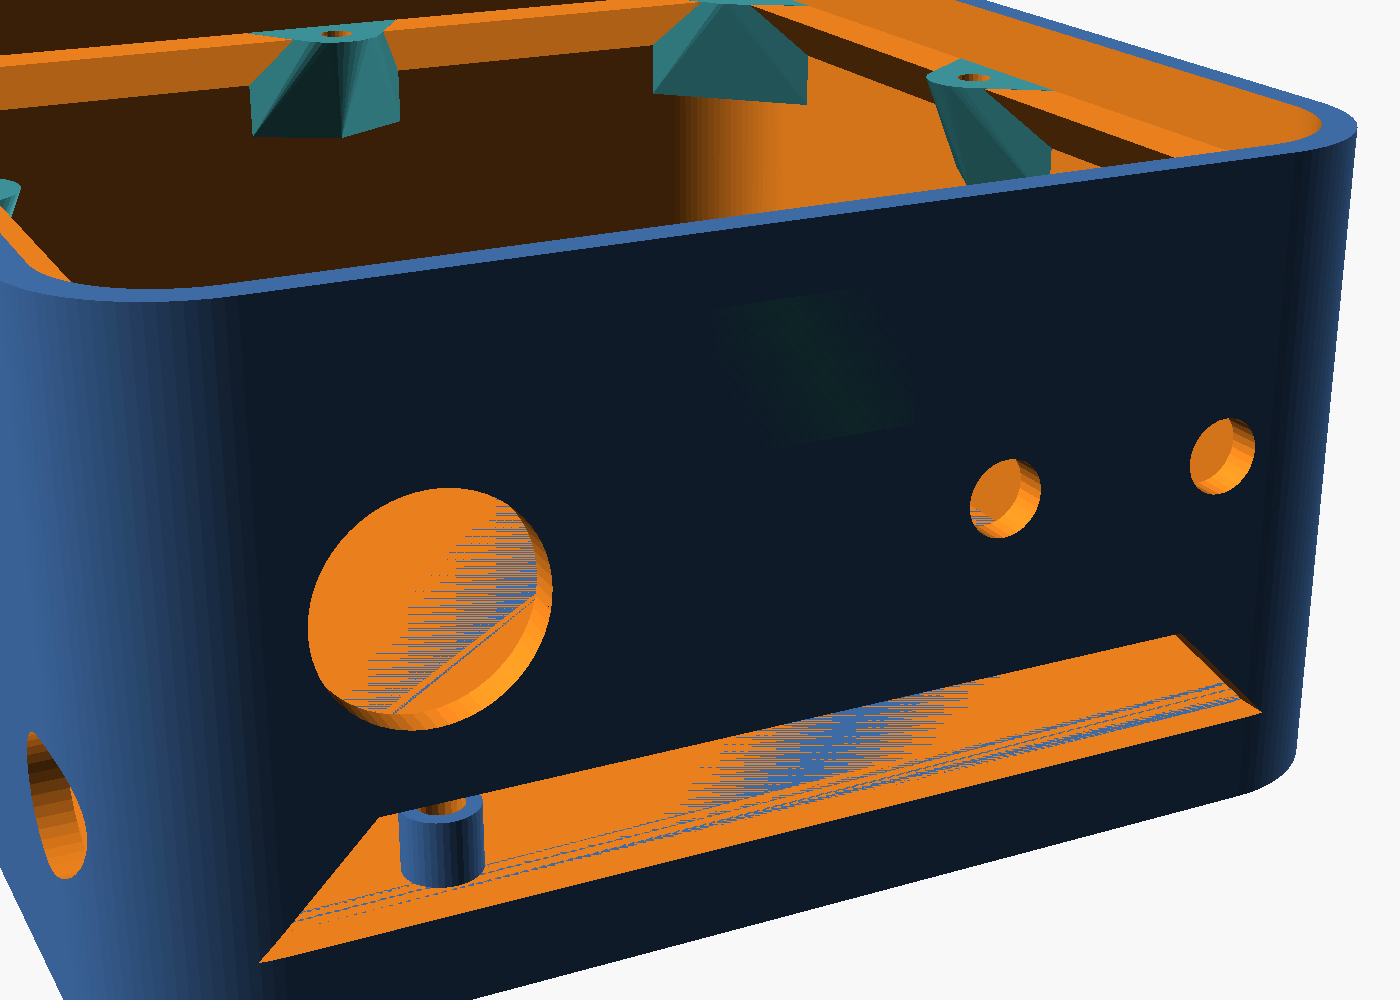
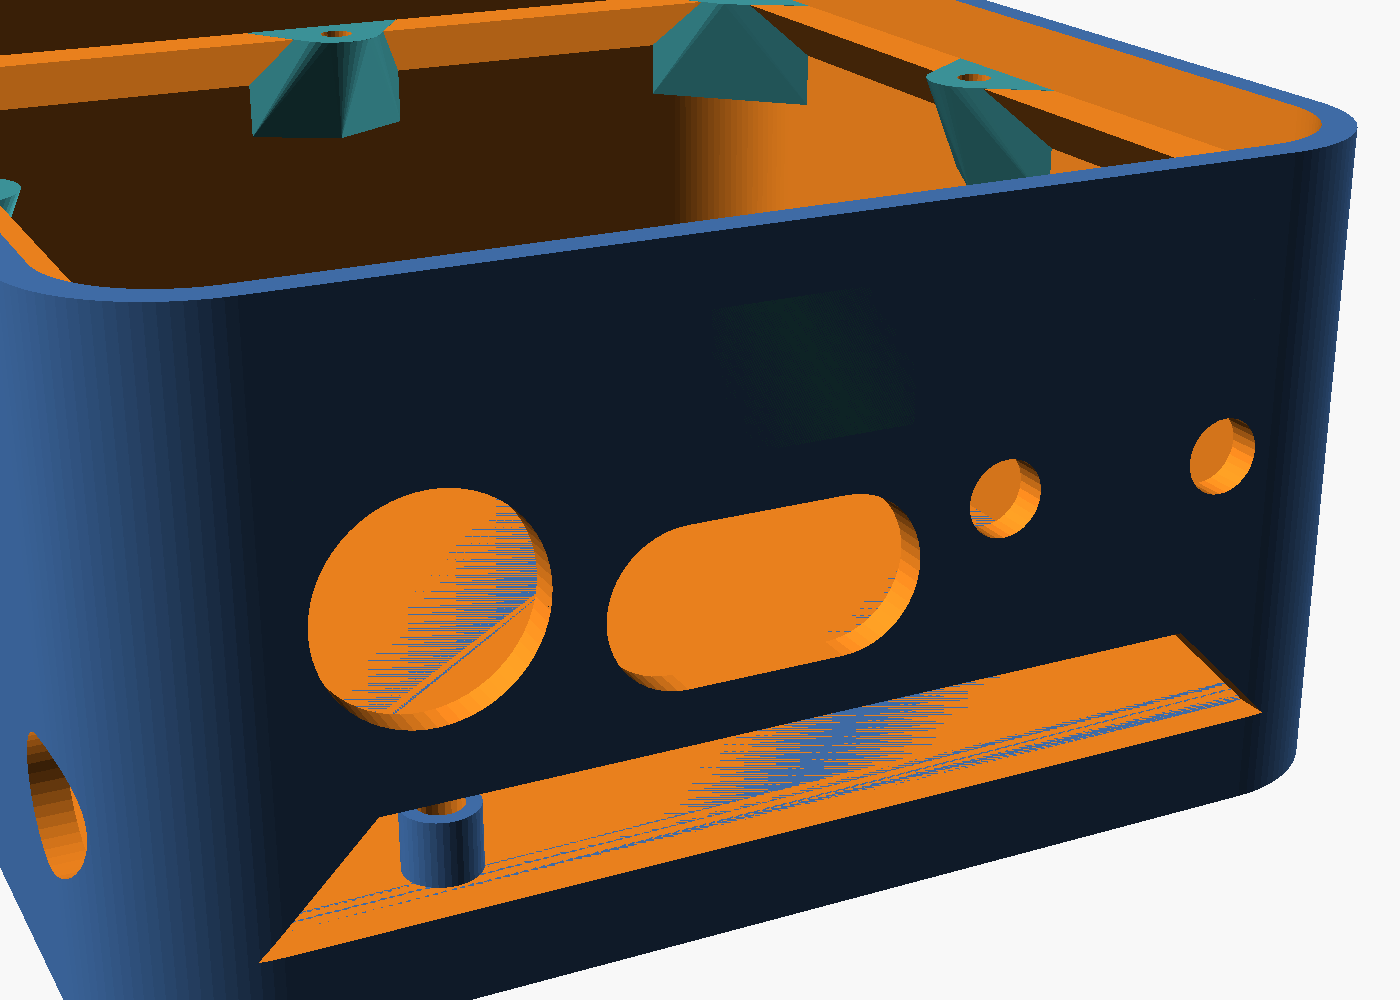
tub: USB cable slot (28 x 14) in the back wall over the port window; wiring.md: the USB route

Changed region(s): [[0.43, 0.496, 0.6757, 0.713]]

diff --git a/hardware/wiring.md b/hardware/wiring.md
@@ -135,9 +135,12 @@ both its power and its serial link to the Orin (it shows up as `303A:1001`).
   the window faces the open front of the pan servo's sleeve. The camera's cable goes with its
   JST plug unplugged at the C920 board; the XIAO's USB-C end goes to the XIAO.
 - **Lid slot:** everything going down to the Orin, the hub cables and the servo adapter's USB, drops
-  through the lid's slot into the plug zone.
+  through the lid's slot into the plug zone; the USB-A ends then leave through the back wall's USB slot.
 - **Wi-Fi antennas:** two 6.5 mm holes in the back wall, 34 mm up, right of the port window
   (centres 18 and 40 mm right of the wall's centre line, 22 mm apart). The SMA bulkheads go in from
   inside with their nut outside; their pigtails run to the Wi-Fi card's U.FL sockets along the plug zone.
-- **Plug zone:** only 28 mm from the Orin's ports to the back wall. USB-A plugs angled 90° upward
-  fit best; straight plugs barely fit with their bend.
+- **USB slot (back wall):** the three USB-A ends (camera, XIAO, servo adapter) come down the lid
+  slot, pass out of the tub through the 28 x 14 mm slot just above the port window, loop down outside
+  and plug into the Orin's USB-A jacks through the window. Feed the plugs through the slot one at a
+  time. This avoids bending plugs in the 28 mm plug zone (the jacks sit 28 mm inside the back wall),
+  so straight plugs work; their tails stick out of the window a little.
